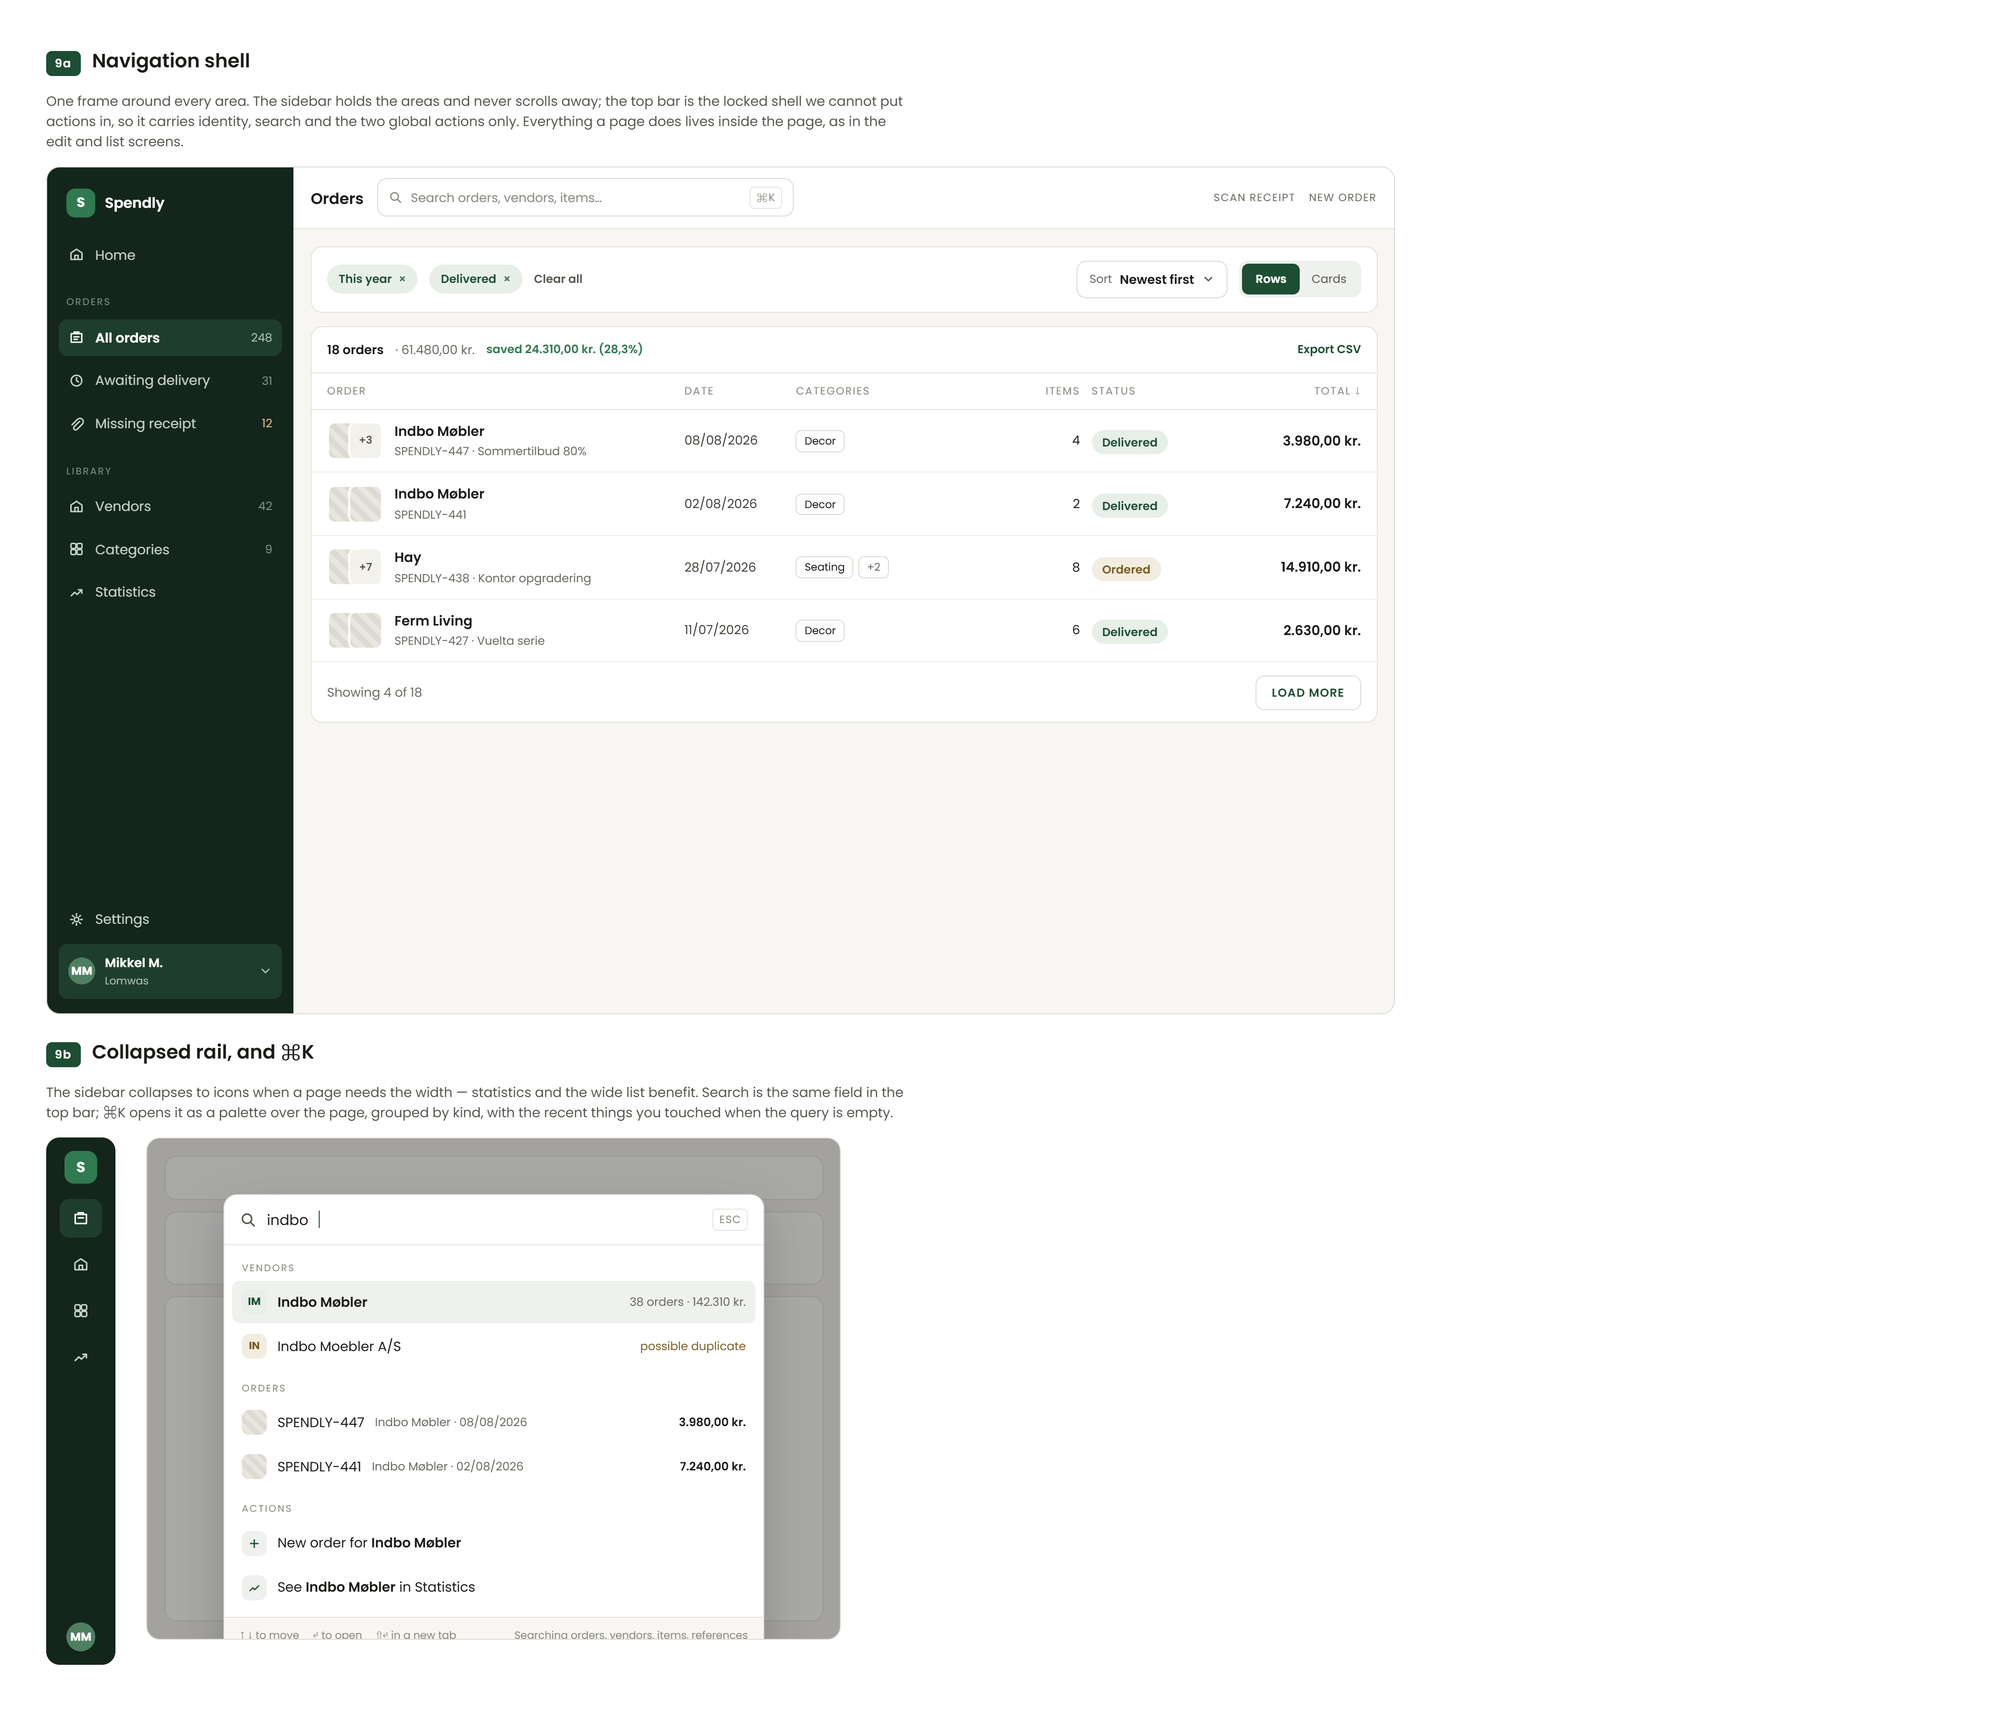
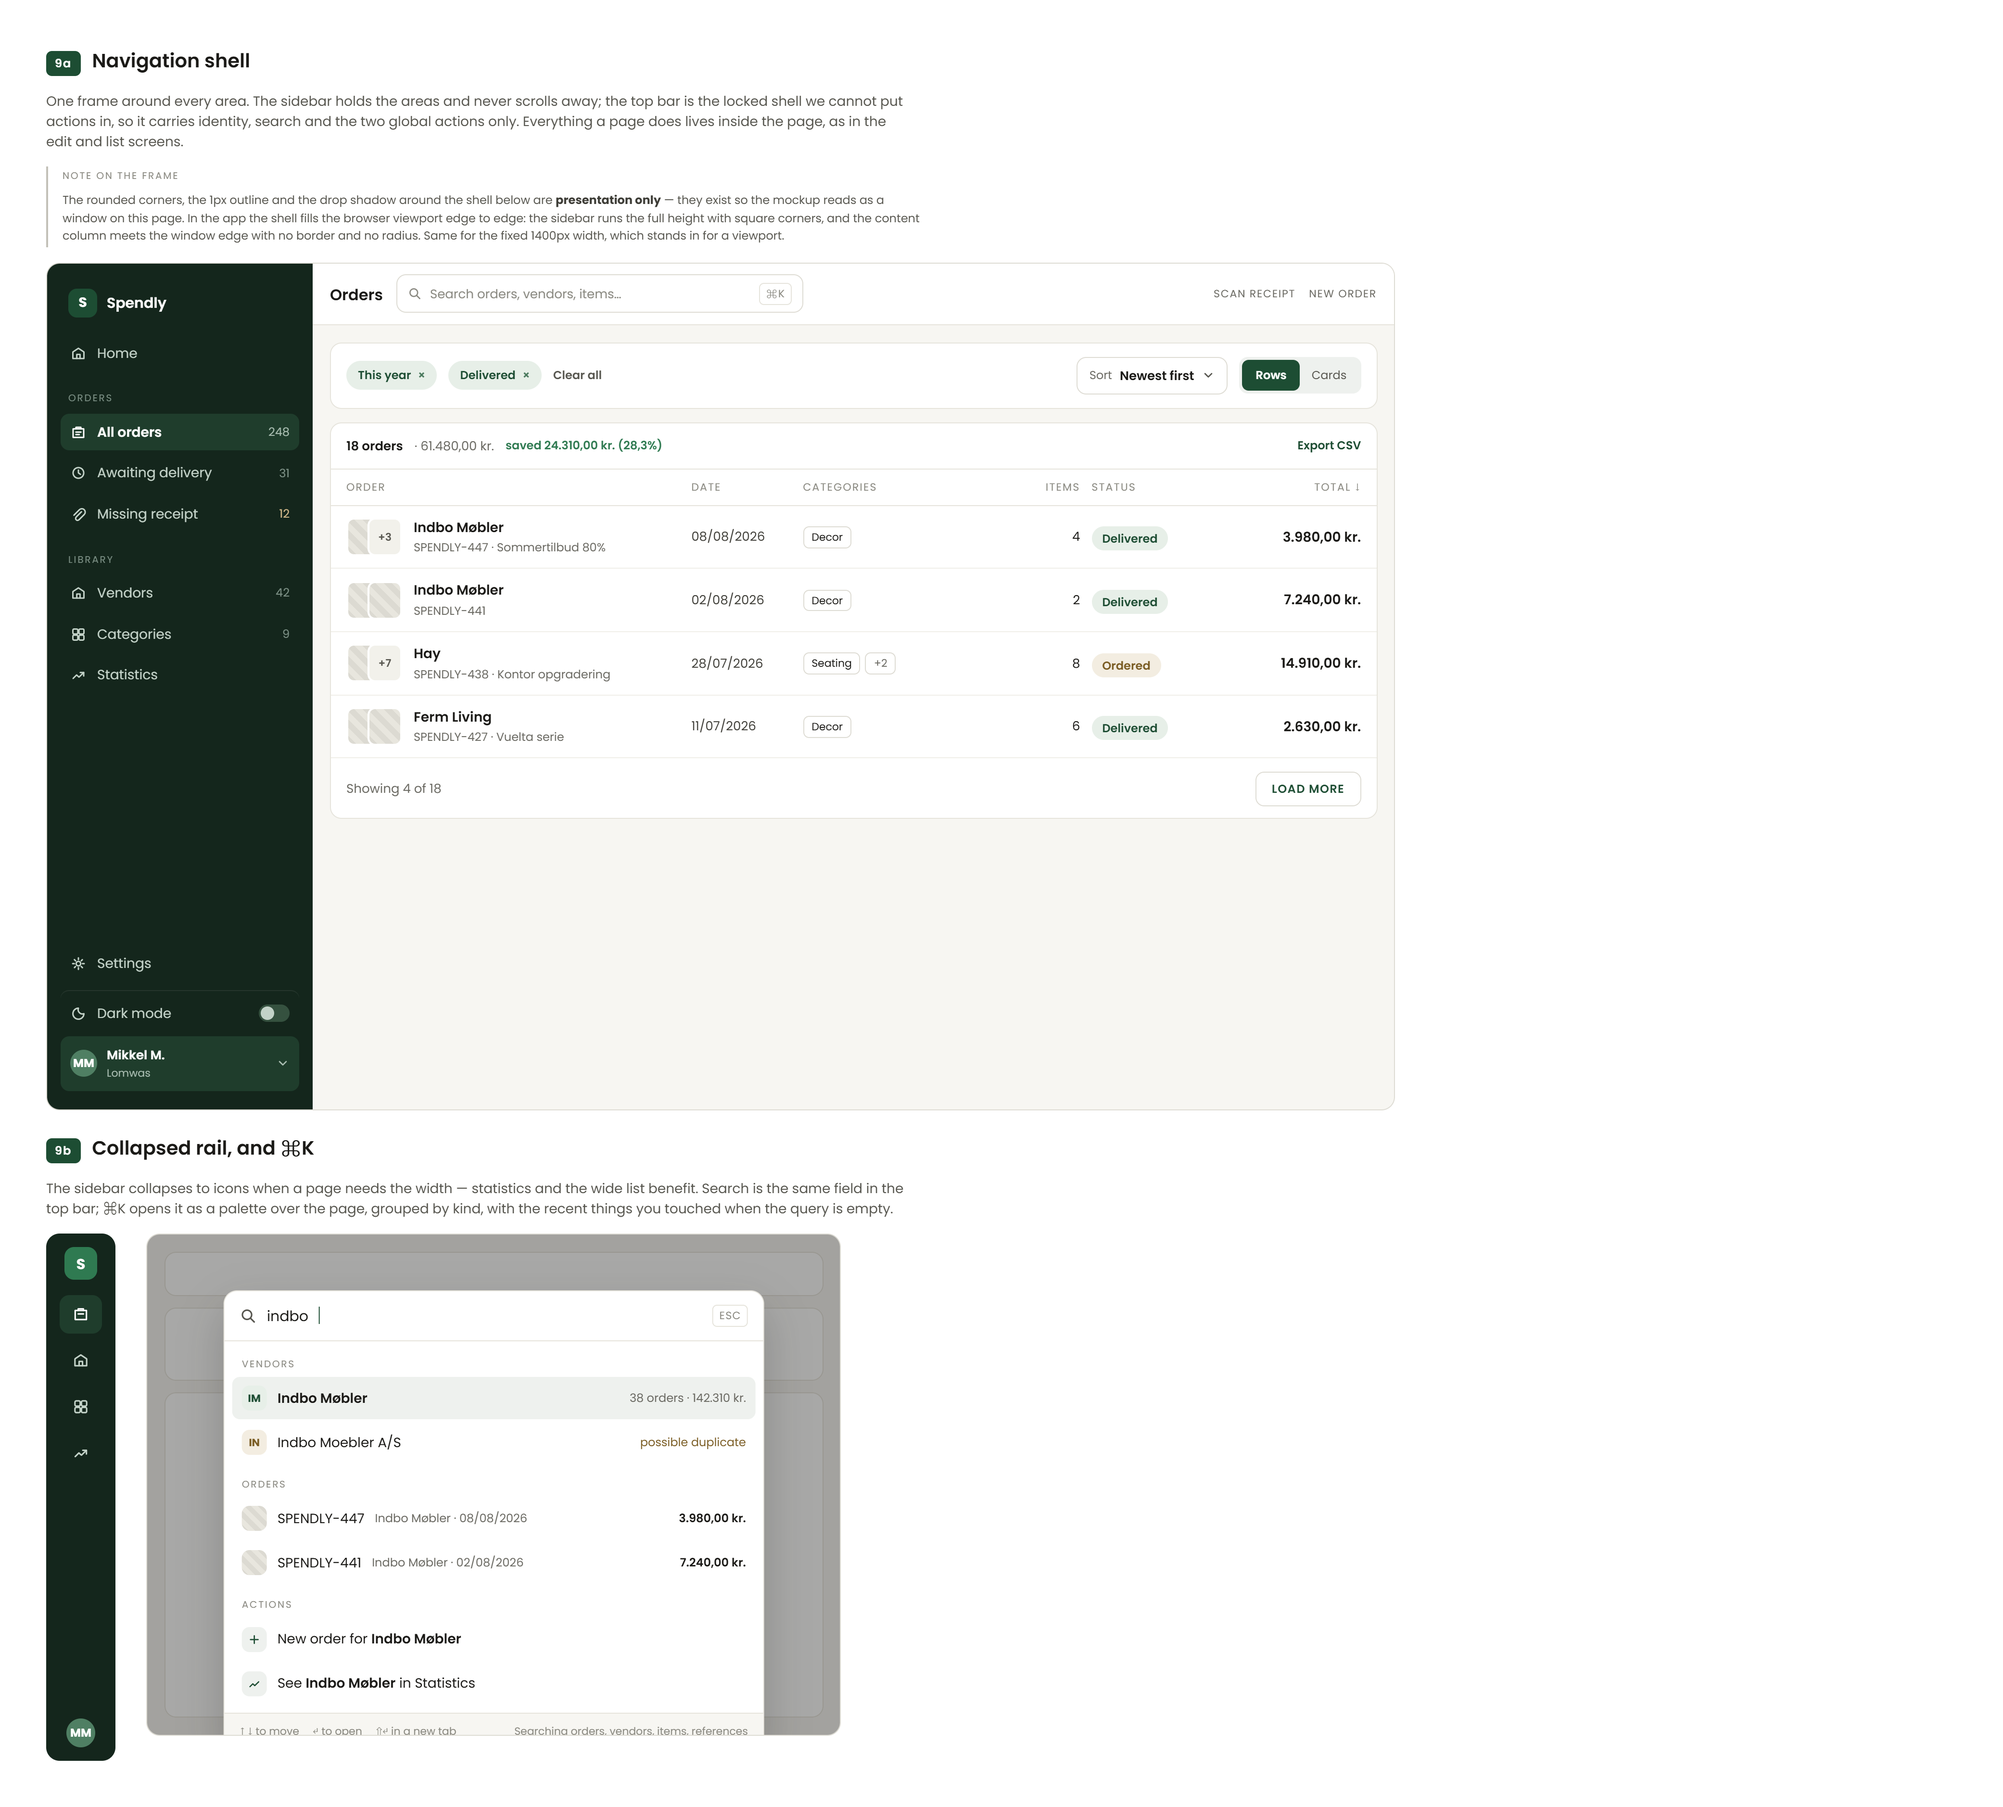
Add files via upload

diff --git a/design/Home.dc.html b/design/Home.dc.html
@@ -26,11 +26,16 @@
   </div>
   <div style="font-size: 14px; color: #57564f; max-width: 900px">The screen you land on. It answers three things without scrolling: where this month stands against the limits, what needs your attention, and what you last recorded. Capture is the largest thing on the page, since adding a receipt is the most common reason to open the app.</div>
 
+  <div style="max-width: 900px; border-left: 2px solid #c3c1b8; padding: 2px 0 2px 15px; display: flex; flex-direction: column; gap: 9px">
+    <div style="font-size: 10px; letter-spacing: 0.14em; color: #8b8a82">NOTE ON THE FRAME</div>
+    <div style="font-size: 12px; color: #57564f; line-height: 1.55">The rounded corners, the 1px outline and the drop shadow around the shell below are <b style="color: #3d3c36">presentation only</b> — they exist so the mockup reads as a window on this page. In the app the shell fills the browser viewport edge to edge: the sidebar runs the full height with square corners, and the content column meets the window edge with no border and no radius. Same for the fixed 1400px width, which stands in for a viewport.</div>
+  </div>
+
   <div style="width: 1400px; background: #f7f6f2; border: 1px solid #dedcd4; border-radius: 14px; overflow: hidden; display: flex">
 
-    <div style="width: 232px; background: #14261c; display: flex; flex-direction: column; gap: 6px; padding: 16px 12px; flex: none">
+    <div style="width: 248px; background: #14261c; display: flex; flex-direction: column; gap: 4px; padding: 20px 14px; flex: none">
       <div style="display: flex; align-items: center; gap: 10px; padding: 6px 8px 14px">
-        <div style="width: 30px; height: 30px; border-radius: 9px; background: #2f7a51; color: #fff; display: grid; place-items: center; font-size: 14px; font-weight: 700">S</div>
+        <div style="width: 30px; height: 30px; border-radius: 9px; background: #1d4d33; color: #fff; display: grid; place-items: center; font-size: 14px; font-weight: 700">S</div>
         <div style="font-size: 15px; font-weight: 600; color: #fff">Spendly</div>
       </div>
       <div style="display: flex; align-items: center; gap: 11px; padding: 9px 10px; border-radius: 9px; background: #1f3d2c; color: #fff">
@@ -77,6 +82,14 @@
       <div style="display: flex; align-items: center; gap: 11px; padding: 9px 10px; border-radius: 9px; color: #c3d2c8">
         <svg width="17" height="17" viewBox="0 0 16 16" fill="none" stroke="currentColor" stroke-width="1.4" stroke-linecap="round" stroke-linejoin="round"><circle cx="8" cy="8" r="2.2"></circle><path d="M8 2.4v1.6"></path><path d="M8 12v1.6"></path><path d="M2.4 8h1.6"></path><path d="M12 8h1.6"></path><path d="M4.1 4.1l1.1 1.1"></path><path d="M10.8 10.8l1.1 1.1"></path><path d="M11.9 4.1l-1.1 1.1"></path><path d="M5.2 10.8l-1.1 1.1"></path></svg>
         <div style="font-size: 14px">Settings</div>
+      </div>
+      <div style="display: flex; align-items: center; gap: 11px; padding: 9px 10px; border-radius: 9px; color: #c3d2c8; border-top: 1px solid rgba(255,255,255,0.07); margin-top: 4px; padding-top: 13px">
+        <svg width="17" height="17" viewBox="0 0 16 16" fill="none" stroke="currentColor" stroke-width="1.4" stroke-linecap="round" stroke-linejoin="round"><path d="M8 2.6a5.4 5.4 0 1 0 5.4 5.4A4.2 4.2 0 0 1 8 2.6z"></path></svg>
+        <div style="font-size: 14px">Dark mode</div>
+        <div style="flex: 1"></div>
+        <div style="width: 32px; height: 18px; border-radius: 999px; background: #35513f; position: relative; flex: none">
+          <div style="position: absolute; top: 2px; left: 2px; width: 14px; height: 14px; border-radius: 50%; background: #c3d2c8"></div>
+        </div>
       </div>
       <div style="display: flex; align-items: center; gap: 10px; padding: 10px; border-radius: 9px; background: #1f3d2c">
         <div style="width: 28px; height: 28px; border-radius: 50%; background: #4f7f63; color: #fff; display: grid; place-items: center; font-size: 12px; font-weight: 700; flex: none">MM</div>

diff --git a/design/Navigation shell.dc.html b/design/Navigation shell.dc.html
@@ -26,11 +26,16 @@
   </div>
   <div style="font-size: 14px; color: #57564f; max-width: 900px">One frame around every area. The sidebar holds the areas and never scrolls away; the top bar is the locked shell we cannot put actions in, so it carries identity, search and the two global actions only. Everything a page does lives inside the page, as in the edit and list screens.</div>
 
+  <div style="max-width: 900px; border-left: 2px solid #c3c1b8; padding: 2px 0 2px 15px; display: flex; flex-direction: column; gap: 9px">
+    <div style="font-size: 10px; letter-spacing: 0.14em; color: #8b8a82">NOTE ON THE FRAME</div>
+    <div style="font-size: 12px; color: #57564f; line-height: 1.55">The rounded corners, the 1px outline and the drop shadow around the shell below are <b style="color: #3d3c36">presentation only</b> — they exist so the mockup reads as a window on this page. In the app the shell fills the browser viewport edge to edge: the sidebar runs the full height with square corners, and the content column meets the window edge with no border and no radius. Same for the fixed 1400px width, which stands in for a viewport.</div>
+  </div>
+
   <div style="width: 1400px; height: 880px; background: #f7f6f2; border: 1px solid #dedcd4; border-radius: 14px; overflow: hidden; display: flex">
 
-    <div style="width: 232px; background: #14261c; display: flex; flex-direction: column; gap: 6px; padding: 16px 12px; flex: none">
+    <div style="width: 248px; background: #14261c; display: flex; flex-direction: column; gap: 4px; padding: 20px 14px; flex: none">
       <div style="display: flex; align-items: center; gap: 10px; padding: 6px 8px 14px">
-        <div style="width: 30px; height: 30px; border-radius: 9px; background: #2f7a51; color: #fff; display: grid; place-items: center; font-size: 14px; font-weight: 700">S</div>
+        <div style="width: 30px; height: 30px; border-radius: 9px; background: #1d4d33; color: #fff; display: grid; place-items: center; font-size: 14px; font-weight: 700">S</div>
         <div style="font-size: 15px; font-weight: 600; color: #fff">Spendly</div>
       </div>
 
@@ -81,6 +86,14 @@
       <div style="display: flex; align-items: center; gap: 11px; padding: 9px 10px; border-radius: 9px; color: #c3d2c8">
         <svg width="17" height="17" viewBox="0 0 16 16" fill="none" stroke="currentColor" stroke-width="1.4" stroke-linecap="round" stroke-linejoin="round"><circle cx="8" cy="8" r="2.2"></circle><path d="M8 2.4v1.6"></path><path d="M8 12v1.6"></path><path d="M2.4 8h1.6"></path><path d="M12 8h1.6"></path><path d="M4.1 4.1l1.1 1.1"></path><path d="M10.8 10.8l1.1 1.1"></path><path d="M11.9 4.1l-1.1 1.1"></path><path d="M5.2 10.8l-1.1 1.1"></path></svg>
         <div style="font-size: 14px">Settings</div>
+      </div>
+      <div style="display: flex; align-items: center; gap: 11px; padding: 9px 10px; border-radius: 9px; color: #c3d2c8; border-top: 1px solid rgba(255,255,255,0.07); margin-top: 4px; padding-top: 13px">
+        <svg width="17" height="17" viewBox="0 0 16 16" fill="none" stroke="currentColor" stroke-width="1.4" stroke-linecap="round" stroke-linejoin="round"><path d="M8 2.6a5.4 5.4 0 1 0 5.4 5.4A4.2 4.2 0 0 1 8 2.6z"></path></svg>
+        <div style="font-size: 14px">Dark mode</div>
+        <div style="flex: 1"></div>
+        <div style="width: 32px; height: 18px; border-radius: 999px; background: #35513f; position: relative; flex: none">
+          <div style="position: absolute; top: 2px; left: 2px; width: 14px; height: 14px; border-radius: 50%; background: #c3d2c8"></div>
+        </div>
       </div>
       <div style="display: flex; align-items: center; gap: 10px; padding: 10px; border-radius: 9px; background: #1f3d2c">
         <div style="width: 28px; height: 28px; border-radius: 50%; background: #4f7f63; color: #fff; display: grid; place-items: center; font-size: 12px; font-weight: 700; flex: none">MM</div>

diff --git a/design/README.md b/design/README.md
@@ -1,5 +1,7 @@
 # Handoff: Spendly order flows
 
+> **The frame around a mockup is not part of the design.** The full-shell mockups (9a, 10a) sit inside a rounded, outlined card with a drop shadow at a fixed 1400px width. That card is presentation only — it exists so the mockup reads as a window on the page. In the app the shell fills the browser viewport edge to edge: square corners, no outer border, no shadow, the sidebar running the full window height and the content column meeting the window edge. Any fixed pixel width on a full-page mockup stands in for a viewport.
+
 ## Overview
 
 Spendly is personal receipt and order tracking for a single user: capture a receipt, keep the order and its item lines straight, and see what it added up to per month, vendor and category.
